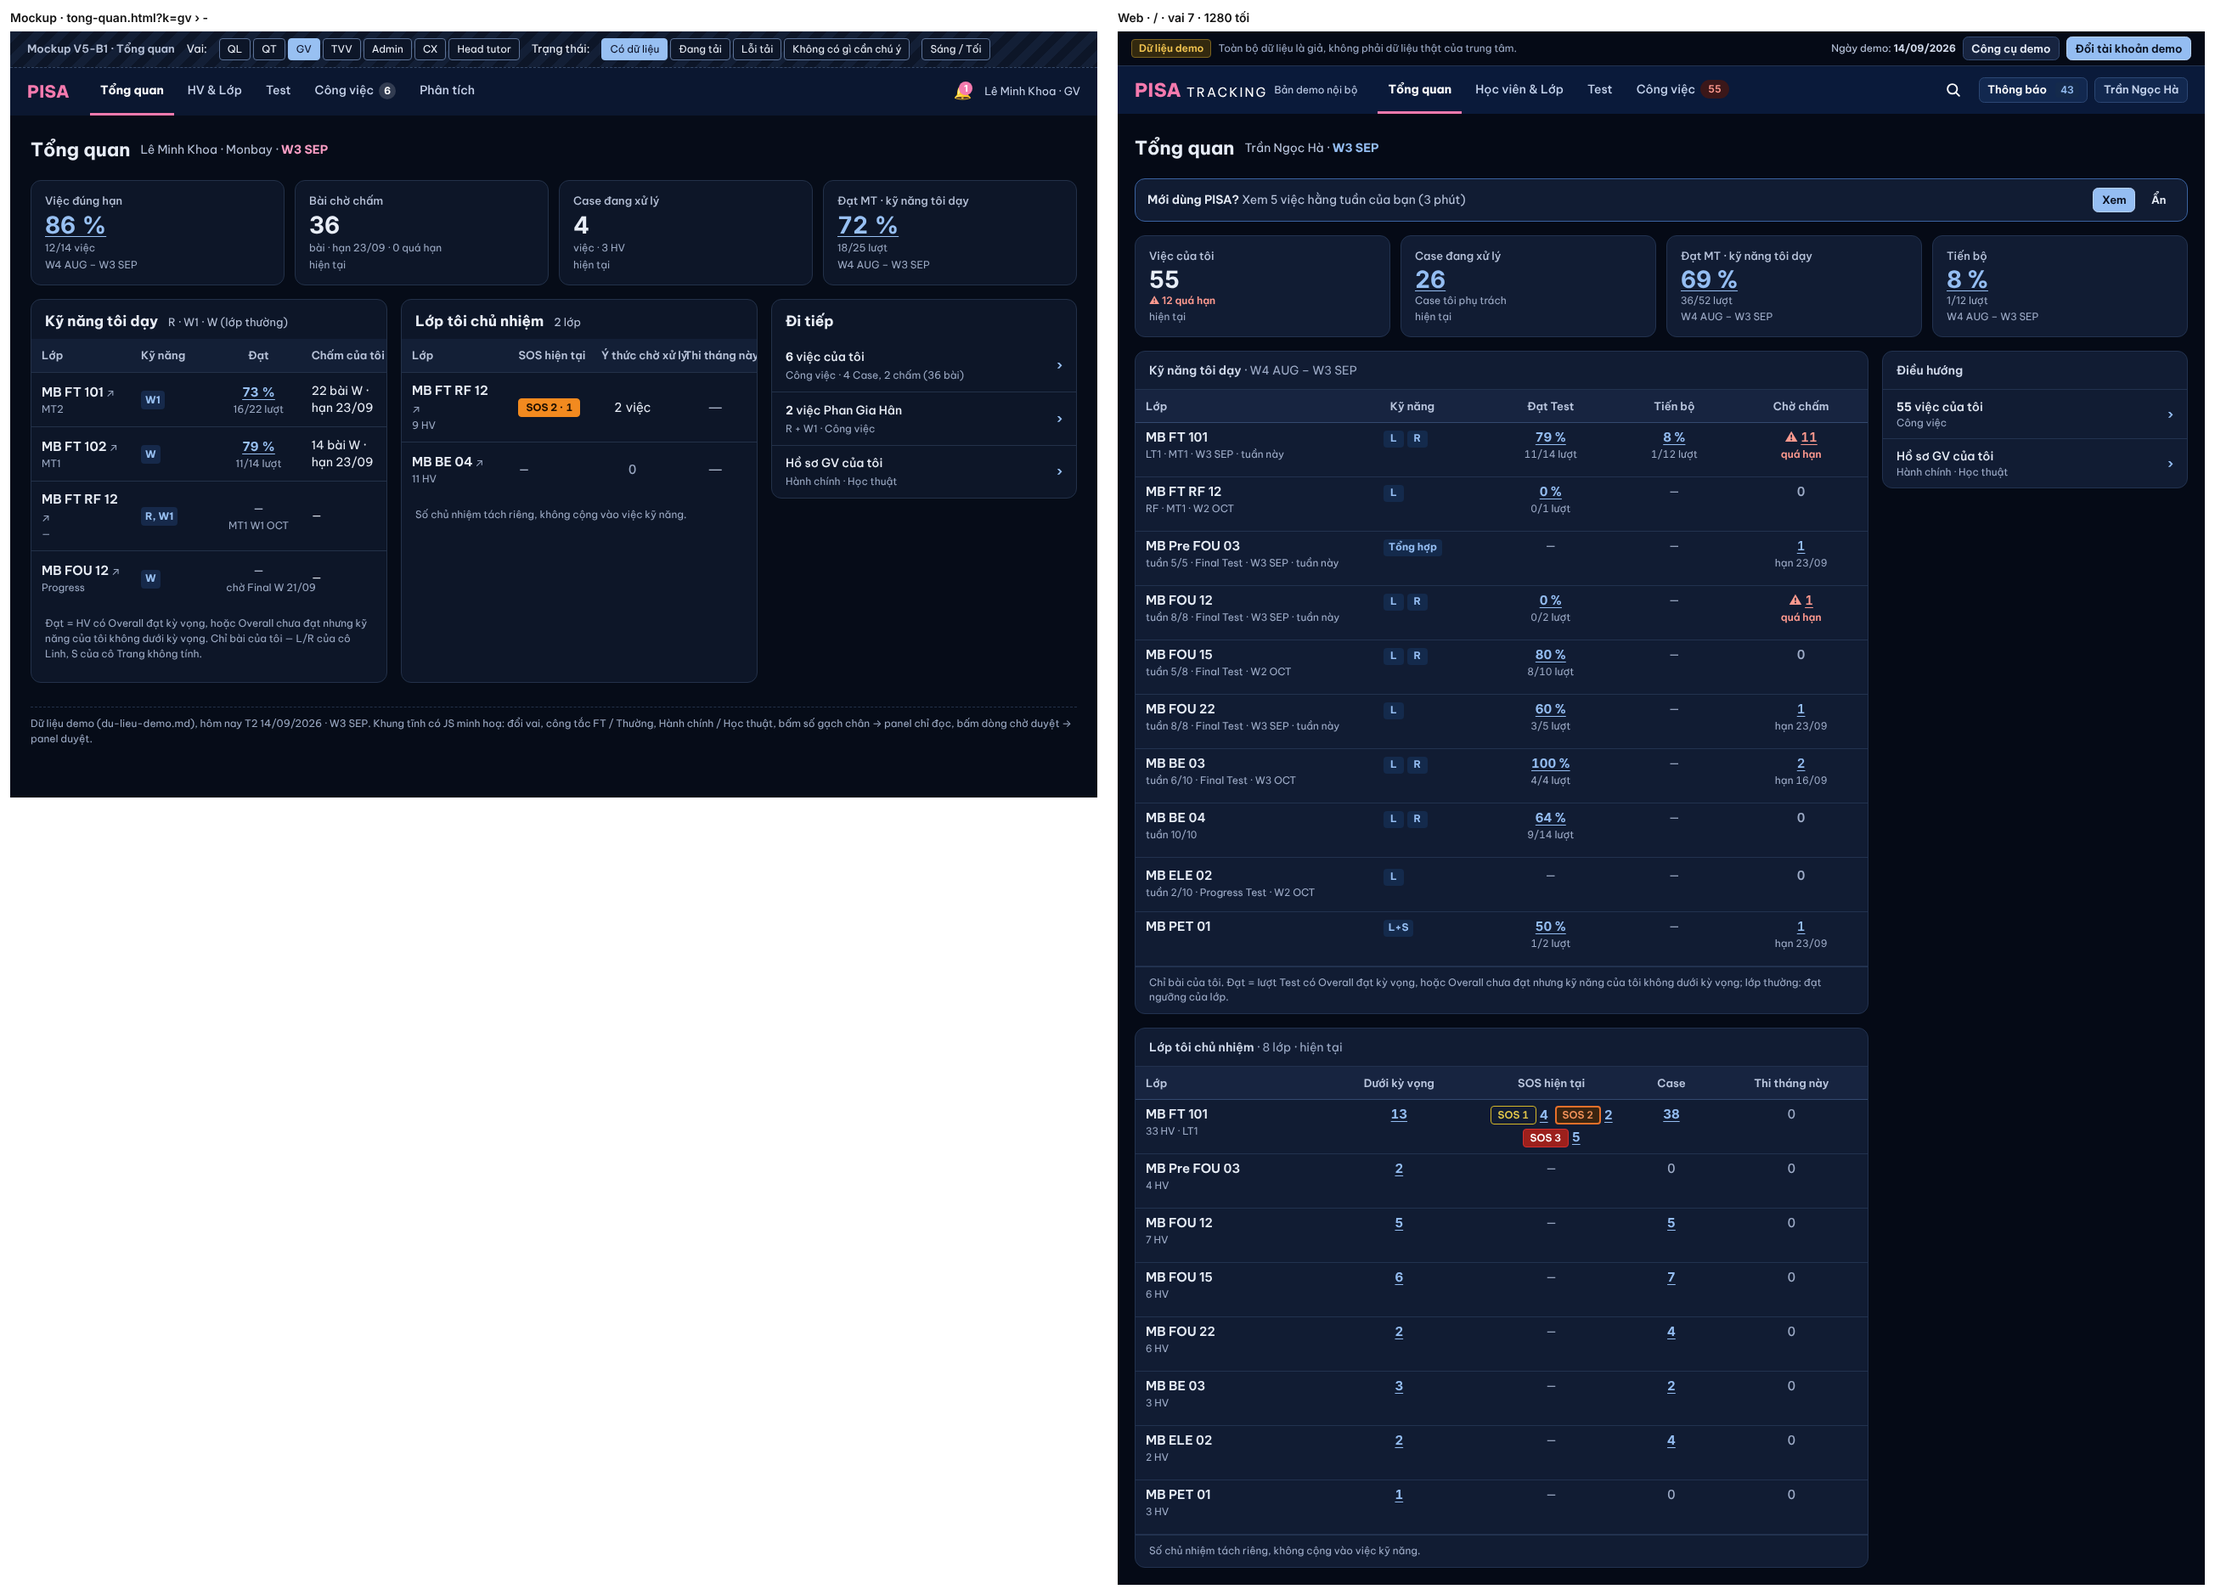
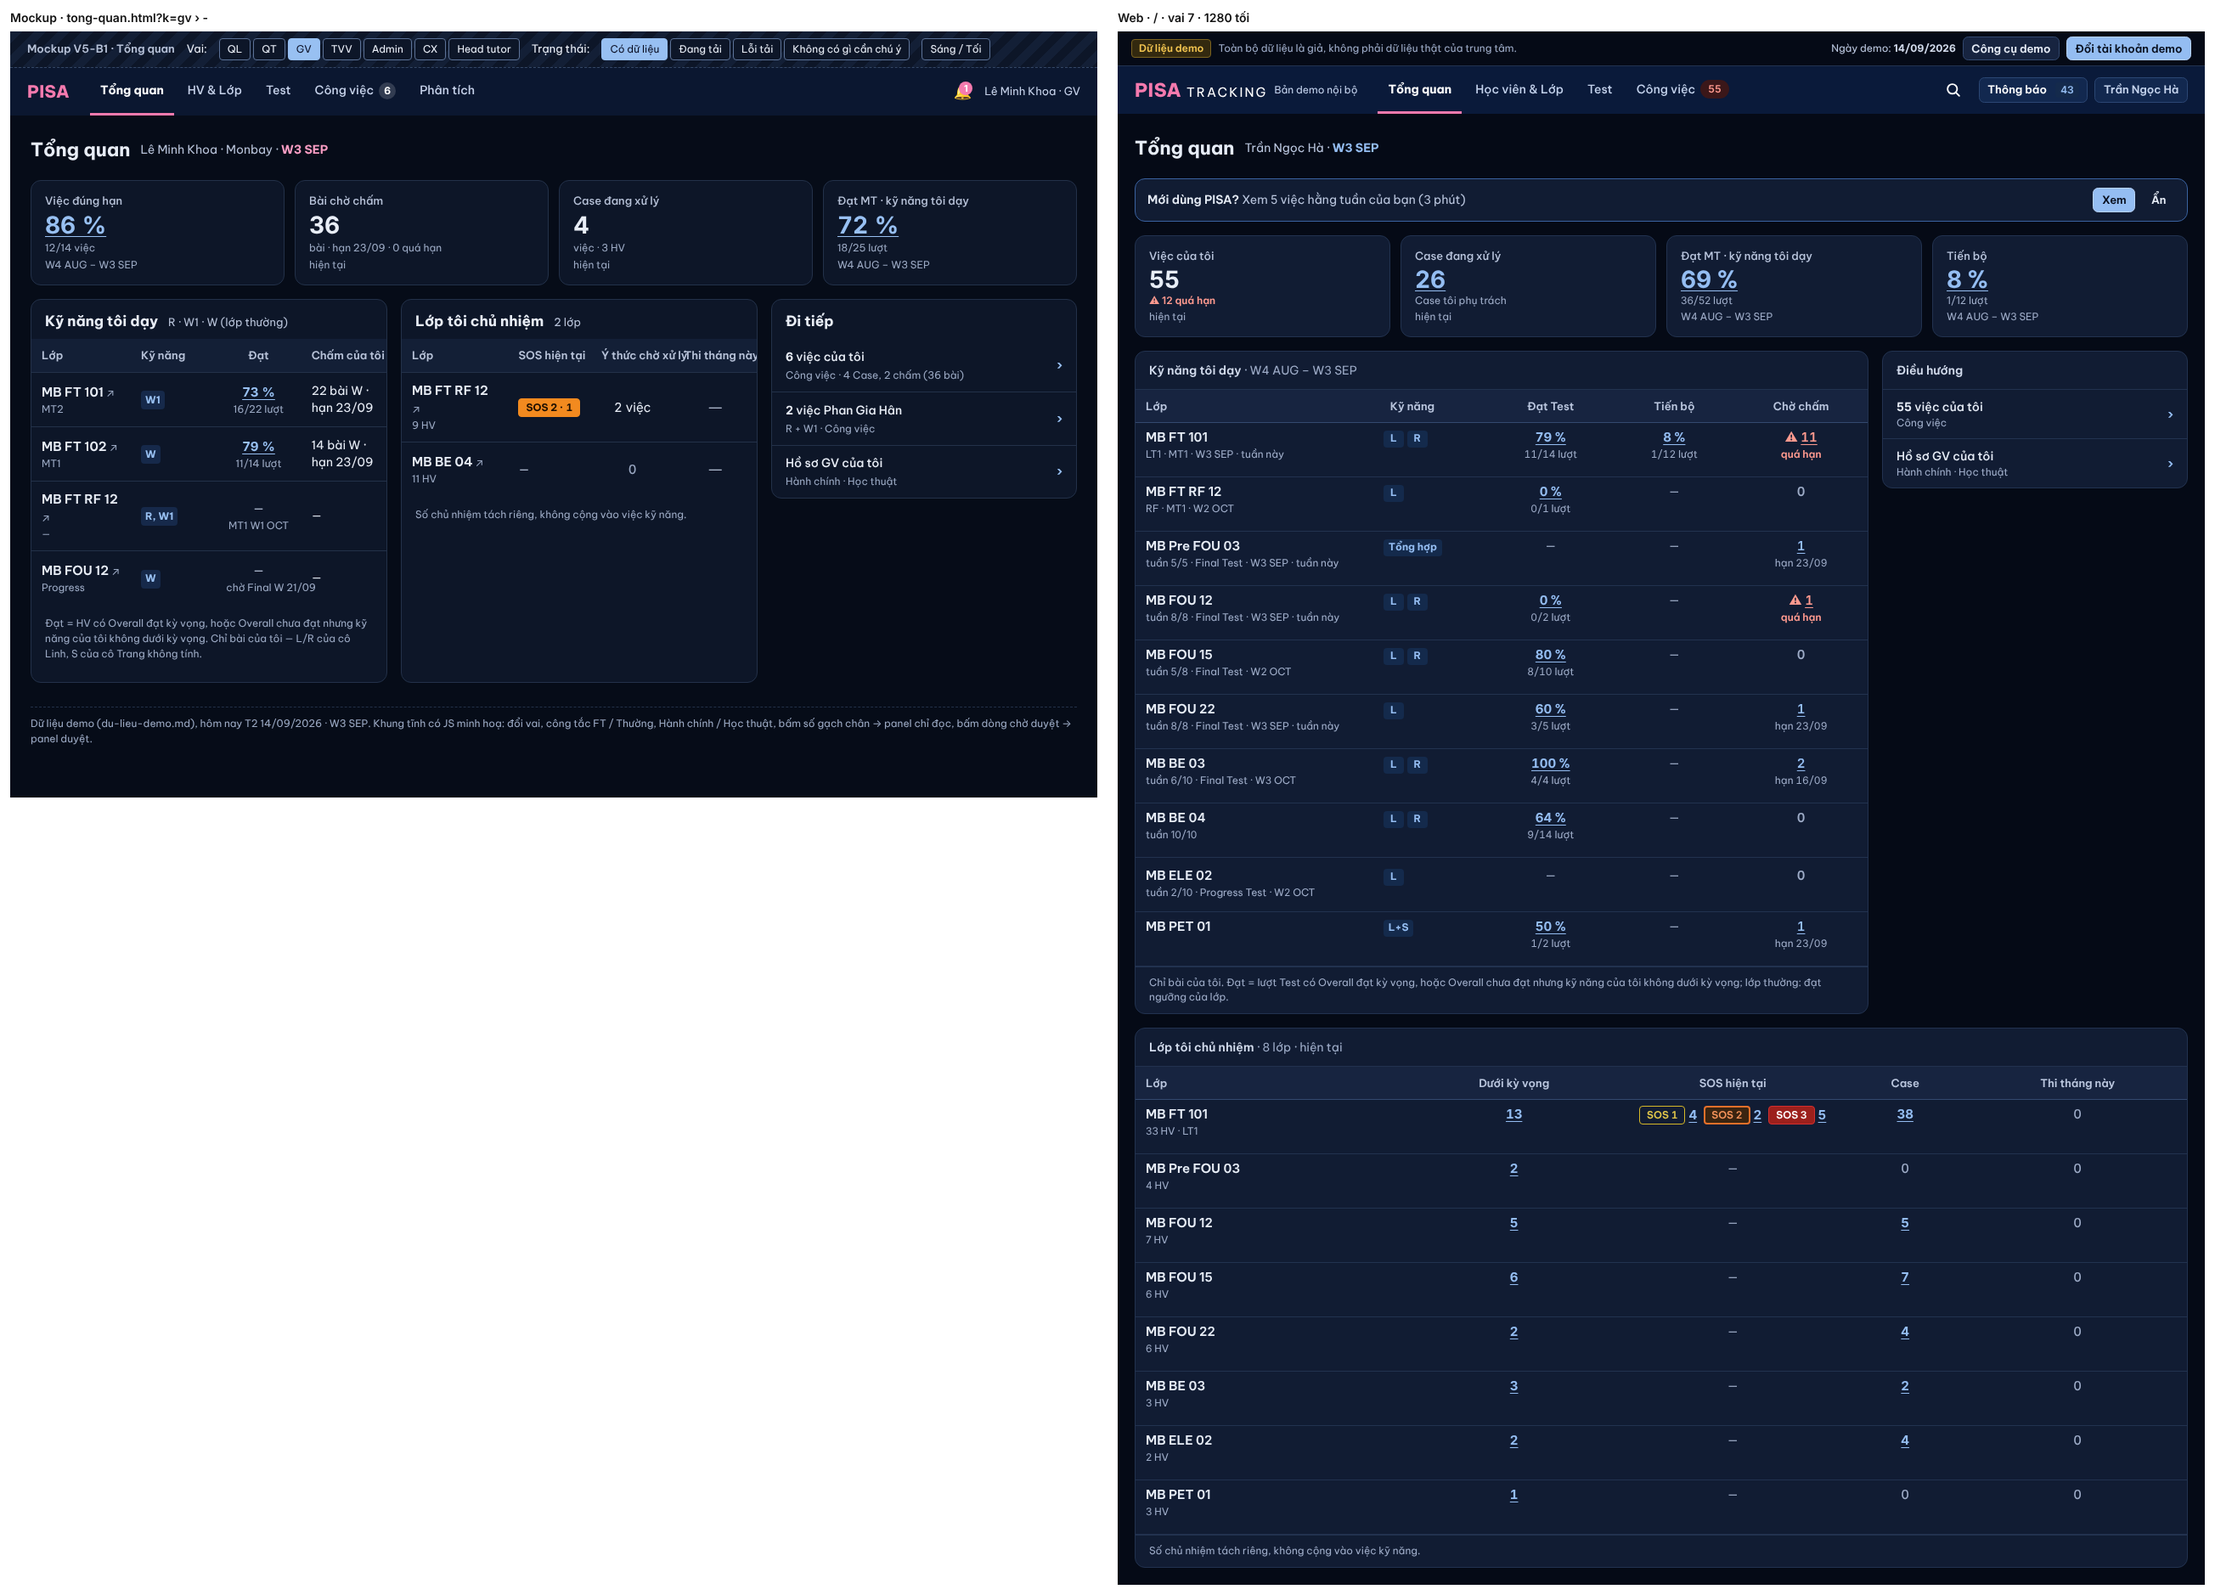
SV-TQ-GV: Lớp tôi chủ nhiệm trải cả bề ngang ở 1100–1439, bỏ đọc lớp thường khi GV không có lớp thường
Chủ SP 24/10 (ảnh 1280): không để thừa khoảng dưới Điều hướng — lưới GV ba cột ≥ 1440,
1100–1439 Kỹ năng | Điều hướng + chủ nhiệm cả hàng dưới. ponytail-review: /hai-khoi chỉ gọi
lopToiDay thường khi coThuong. Ảnh cặp chụp lại.

Claude-Session: https://claude.ai/code/session_018kxq1L8j8UffY9PRoiAhNP

Changed region(s): [[0.6833, 0.6177, 0.9939, 0.9883]]

diff --git a/web/src/modules/worklist/LopToiDay.tsx b/web/src/modules/worklist/LopToiDay.tsx
@@ -155,16 +155,21 @@ const COT_CN: readonly CotBang[] = [
  * KỸ NĂNG TÔI DẠY · LỚP TÔI CHỦ NHIỆM — tầng trái Tổng quan GV (mockup `tong-quan.html?k=gv`). Một GET `/tong-quan/lop-toi-day/hai-khoi`, cả hai khung
  * (không công tắc FT / Thường — mỗi hàng ghi khung của lớp). Số giữ ô bấm V4 (`/tong-quan/lop-toi-day/o`); Đạt / Tiến bộ = ô bảng Học thuật hồ sơ GV
  * (`/giao-vien/:id/chi-so/o?cot=ket-qua-lop|tien-bo-lop:<lớp>`). Khối không có lớp thì không dựng; không lớp nào → một thẻ rỗng (trừ vai không dạy).
+ * Lưới tự đặt cột Điều hướng (`phai`, 360): ≥ 1440 ba cột (dạy · chủ nhiệm · Điều hướng); 1100–1439 dạy | Điều hướng, chủ nhiệm trải cả hàng dưới; < 1100 một cột, Điều hướng trước.
  */
-export function HaiKhoiGv() {
+const LUOI_GV = 'grid items-start gap-4 min-[1100px]:grid-cols-[minmax(0,1fr)_360px] min-[1440px]:grid-cols-[minmax(0,1fr)_minmax(0,1fr)_360px]';
+const O_MOT = 'min-w-0 min-[1100px]:col-start-1 min-[1100px]:row-start-1 min-[1440px]:col-span-2';
+export function HaiKhoiGv({ phai }: { phai: ReactNode }) {
   const { session } = useSession();
   const id = session?.user?.id;
   const { data, error, reload } = useApi<HaiKhoi>('/tong-quan/lop-toi-day/hai-khoi', []);
-  if (error) return <ErrorState message={error.message} hint={error.hint} onRetry={reload} />;
-  if (!data) return <Card title={t('Kỹ năng tôi dạy')} bodyClass="p-4"><Skeleton rows={3} /></Card>;
+  const cotPhai = <div className="flex min-w-0 flex-col gap-4 max-[1099px]:order-first min-[1100px]:col-start-2 min-[1100px]:row-start-1 min-[1440px]:col-start-3">{phai}</div>;
+  const luoi = (trai: ReactNode) => <div data-hd="tq-lop-toi-day" className={LUOI_GV}>{trai}{cotPhai}</div>;
+  if (error) return luoi(<div className={O_MOT}><ErrorState message={error.message} hint={error.hint} onRetry={reload} /></div>);
+  if (!data) return luoi(<Card className={O_MOT} title={t('Kỹ năng tôi dạy')} bodyClass="p-4"><Skeleton rows={3} /></Card>);
   if (!data.day.length && !data.chuNhiem.length) {
-    if (!session?.roles?.includes('teacher')) return null;   // Head tutor (góc nhìn GV, không dạy lớp): không thẻ rỗng
-    return <Card title={t('Lớp của tôi')} bodyClass="p-0"><Empty title={t('Bạn chưa được phân công lớp nào đang mở')} hint={t('Khi QL phân công lớp, kỹ năng bạn dạy và lớp chủ nhiệm hiện ở đây.')} /></Card>;
+    if (!session?.roles?.includes('teacher')) return luoi(null);   // Head tutor (góc nhìn GV, không dạy lớp): không thẻ rỗng
+    return luoi(<Card className={O_MOT} title={t('Lớp của tôi')} bodyClass="p-0"><Empty title={t('Bạn chưa được phân công lớp nào đang mở')} hint={t('Khi QL phân công lớp, kỹ năng bạn dạy và lớp chủ nhiệm hiện ở đây.')} /></Card>);
   }
   const o = (khung: string, classId: number, cot: string, n: number, tieuDe: string, className?: string) => (
     <OSo giaTri={n} nguon={`/tong-quan/lop-toi-day/o?ct=${khung}&classId=${classId}&cot=${cot}`} tieuDe={tieuDe} className={className} />
@@ -216,10 +221,10 @@ export function HaiKhoiGv() {
   const phuCn = (l: DongCn, c: CotBang): ReactNode => (c.key === 'lop' ? [t('{n} HV', { n: l.hocVien }), l.khung === 'ft' ? l.route : null].filter(Boolean).join(' · ') : null);
 
   const hai = data.day.length > 0 && data.chuNhiem.length > 0;
-  return (
-    <div data-hd="tq-lop-toi-day" className={`grid items-start gap-4 ${hai ? 'min-[1440px]:grid-cols-2' : ''}`}>
+  return luoi(
+    <>
       {data.day.length > 0 && (
-        <Card bodyClass="p-0" title={<>{t('Kỹ năng tôi dạy')}{data.ky && <span className="font-normal text-slate-500"> · {kyChu(data.ky)}</span>}</>}>
+        <Card className={hai ? 'min-w-0 min-[1100px]:col-start-1 min-[1100px]:row-start-1' : O_MOT} bodyClass="p-0" title={<>{t('Kỹ năng tôi dạy')}{data.ky && <span className="font-normal text-slate-500"> · {kyChu(data.ky)}</span>}</>}>
           <Bang ten={t('Kỹ năng tôi dạy')} cot={coTb ? COT_DAY : COT_DAY.filter((c) => c.key !== 'tb')} hang={data.day} khoa={(d) => d.classId} oCua={oDay} phuCua={phuDay} khung={false} deu />
           <p className="m-0 border-t px-4 py-2.5 text-xs text-slate-500" style={{ borderColor: 'var(--line)' }}>
             {t('Chỉ bài của tôi. Đạt = lượt Test có Overall đạt kỳ vọng, hoặc Overall chưa đạt nhưng kỹ năng của tôi không dưới kỳ vọng; lớp thường: đạt ngưỡng của lớp.')}
@@ -227,11 +232,11 @@ export function HaiKhoiGv() {
         </Card>
       )}
       {data.chuNhiem.length > 0 && (
-        <Card bodyClass="p-0" title={<>{t('Lớp tôi chủ nhiệm')} <span className="font-normal text-slate-500">· {t('{n} lớp', { n: data.chuNhiem.length })} · {t('hiện tại')}</span></>}>
+        <Card className={hai ? 'min-w-0 min-[1100px]:col-span-2 min-[1440px]:col-span-1 min-[1440px]:col-start-2 min-[1440px]:row-start-1' : O_MOT} bodyClass="p-0" title={<>{t('Lớp tôi chủ nhiệm')} <span className="font-normal text-slate-500">· {t('{n} lớp', { n: data.chuNhiem.length })} · {t('hiện tại')}</span></>}>
           <Bang ten={t('Lớp tôi chủ nhiệm')} cot={data.chuNhiem.some((l) => l.khung === 'ft') ? COT_CN : COT_CN.filter((c) => c.key !== 'sos')} hang={data.chuNhiem} khoa={(l) => l.classId} oCua={oCn} phuCua={phuCn} khung={false} deu />
           <p className="m-0 border-t px-4 py-2.5 text-xs text-slate-500" style={{ borderColor: 'var(--line)' }}>{t('Số chủ nhiệm tách riêng, không cộng vào việc kỹ năng.')}</p>
         </Card>
       )}
-    </div>
+    </>,
   );
 }

diff --git a/web/src/modules/worklist/TongQuanV5.tsx b/web/src/modules/worklist/TongQuanV5.tsx
@@ -390,7 +390,8 @@ export function TongQuanCxV5({ d, onChiNhanh }: { d: TongQuanV5Data; onChiNhanh:
 
 type ChiSoGv = { tu: string; den: string; ketQua: OPtGv; tienBo: OPtGv };
 /** GV (chủ SP 23/10; Head tutor tạm dùng chung): Việc của tôi (+ quá hạn) · Case đang xử lý · Đạt MT kỹ năng tôi dạy · Tiến bộ. */
-export function TongQuanGvV5({ lopToiDay }: { lopToiDay: ReactNode }) {
+/** `lopToiDay(phai)`: khối trái tự đặt cột Điều hướng (SV-TQ-GV — khối chủ nhiệm trải cả bề ngang dưới khi 1100–1439). */
+export function TongQuanGvV5({ lopToiDay }: { lopToiDay: (phai: ReactNode) => ReactNode }) {
   const { session } = useSession();
   const id = session?.user?.id;
   const cs = useApi<ChiSoGv>(id ? `/giao-vien/${id}/chi-so` : null, [id]);
@@ -410,11 +411,10 @@ export function TongQuanGvV5({ lopToiDay }: { lopToiDay: ReactNode }) {
         <ChiSo ten={t('Đạt MT · kỹ năng tôi dạy')} ky={ky} giaTri={o(cs.data?.ketQua, 'ket-qua', t('Kết quả'))} mau={tuMau(tyLeGv(cs.data?.ketQua), t('lượt'))} />
         <ChiSo ten={t('Tiến bộ')} ky={ky} giaTri={o(cs.data?.tienBo, 'tien-bo', t('HV tiến bộ'))} mau={tuMau(tyLeGv(cs.data?.tienBo), t('lượt'))} />
       </DaiChiSo>
-      <BoCuc trai={lopToiDay}
-        phai={<DiTiep dong={[
+      {lopToiDay(<DiTiep dong={[
           ...(session?.nav?.work ? [{ to: '/cong-viec', t1: <><So n={viec?.viec ?? 0} /> {t('việc của tôi')}</>, t2: t('Công việc') }] : []),
           ...(id ? [{ to: `/giao-vien/${id}`, t1: t('Hồ sơ GV của tôi'), t2: t('Hành chính · Học thuật') }] : []),
-        ]} />} />
+        ]} />)}
     </>
   );
 }

diff --git a/server/src/worklist/tongQuan.ts b/server/src/worklist/tongQuan.ts
@@ -359,7 +359,9 @@ function thiThangNayCuaGv(p: Principal, ct: 'ft' | 'thuong') {
  * Mỗi số bấm được: cột V4 + Thi tháng này → `/tong-quan/lop-toi-day/o`; Đạt / Tiến bộ → `/giao-vien/:id/chi-so/o?cot=ket-qua-lop|tien-bo-lop:<lớp>`.
  */
 export function lopToiDayHaiKhoi(p: Principal) {
-  const hang = (['ft', 'thuong'] as const).flatMap((khung) => lopToiDay(p, { ct: khung }).rows.map((r) => ({ ...r, khung })));
+  /* Lớp thường chỉ đọc khi GV có lớp thường (`coThuong` của lần đọc FT) — GV chỉ dạy FT không tốn thêm câu. */
+  const ft = lopToiDay(p, { ct: 'ft' });
+  const hang = [...ft.rows.map((r) => ({ ...r, khung: 'ft' as const })), ...(ft.coThuong ? lopToiDay(p, { ct: 'thuong' }).rows.map((r) => ({ ...r, khung: 'thuong' as const })) : [])];
   /* Lớp chỉ GVCN (không kỹ năng) mà còn bài chờ chấm của tôi vẫn vào khối dạy — không giấu bài. */
   const day = hang.filter((r) => r.kyNang.length || r.baiCho);
   const cs = day.length ? chiSoHoSoGv(p, p.userId, {}) : null;

diff --git a/web/src/modules/worklist/OverviewPage.tsx b/web/src/modules/worklist/OverviewPage.tsx
@@ -49,7 +49,7 @@ export default function OverviewPage() {
   );
 
   if (vai === 'tvv') return trang(t('HV của tôi'), <TongQuanTvvV5 />);
-  if (vai === 'gv' || vai === 'ht') return trang(session?.user?.fullName ?? '', <TongQuanGvV5 lopToiDay={<HaiKhoiGv />} />);
+  if (vai === 'gv' || vai === 'ht') return trang(session?.user?.fullName ?? '', <TongQuanGvV5 lopToiDay={(phai) => <HaiKhoiGv phai={phai} />} />);
   if (vai === 'admin') {
     return trang(t('Mock Test'), <TongQuanAdminV5 cn={branchId} mockTest={<MockTestAdmin branchId={branchId} />} lich={<LichSapToi branchId={branchId} ct={null} />} />, chiNhanh);
   }

diff --git a/docs/anh/sv-tq-gv/khop-khac.md b/docs/anh/sv-tq-gv/khop-khac.md
@@ -30,7 +30,7 @@ Quyền: chỉ lớp của chính người gọi (phân công hiệu lực hôm 
 | # | Khung mockup | Thành phần web | Kết quả |
 |---|---|---|---|
 | 1 | Hai thẻ cạnh nhau "Kỹ năng tôi dạy" · "Lớp tôi chủ nhiệm" trong cột trái, cột "Đi tiếp" phải | `HaiKhoiGv` (`Card` × 2) trong `BoCuc` trái; cột phải giữ "Điều hướng" #551 | KHỚP |
-| 2 | Cạnh nhau tới 1100 px | cạnh nhau **≥ 1440**; 1100–1439 xếp dọc (ở 1280 mỗi thẻ ~400 px, bảng 5 cột phải cuộn ngang trong thẻ) | KHÁC — [XM-SV-3] |
+| 2 | Cạnh nhau tới 1100 px | cạnh nhau **≥ 1440** (ba cột: dạy · chủ nhiệm · Điều hướng); 1100–1439: Kỹ năng tôi dạy | Điều hướng, **Lớp tôi chủ nhiệm trải cả bề ngang dưới** (chủ SP 24/10 — không để thừa khoảng trống dưới Điều hướng); ở 1280 hai thẻ cạnh nhau chỉ ~400 px, bảng phải cuộn ngang | KHÁC — [XM-SV-3] |
 | 3 | Tiêu đề phụ "R · W1 · W (lớp thường)" | tiêu đề phụ = **kỳ** "W4 AUG – W3 SEP" (Đạt / Tiến bộ là số theo kỳ); kỹ năng nằm ở chip từng hàng | KHÁC nhỏ (chỉnh cho hợp lý) |
 | 4 | Cột Lớp + dòng phụ mốc Test ("MT2", "Progress") | mã lớp → hồ sơ lớp; dòng phụ: lộ trình · Test sắp tới (FT) / tuần học · Test sắp tới (thường) · "tuần này" (V4 "Test sắp tới") | KHỚP |
 | 5 | Cột Kỹ năng (chip) | `ChipKy` (chung với hồ sơ GV, chuyển sang `ui/Nhan.tsx`) | KHỚP |
@@ -55,7 +55,7 @@ Quyền: chỉ lớp của chính người gọi (phân công hiệu lực hôm 
 ## [XM] — cần PTA Plan
 
 - **XM-SV-1** cột "Ý thức chờ xử lý" (mockup) ↔ "Case" (`plan.md` SV-TQ-GV + prompt PR). Chọn **Case** (giữ ô V4 bấm được). Thêm cột Ý thức cần một tập "việc Ý thức chờ xử lý theo lớp" — chưa có hàm theo lớp cho GVCN (Công việc nhóm Ý thức là theo việc). **Khuyến nghị:** giữ Case; nếu chủ SP muốn Ý thức, thêm cột thứ 6 ở PR sau (dùng tập nhóm `y-thuc` của `myWork` chia theo lớp).
-- **XM-SV-3** hai khối cạnh nhau chỉ từ 1440 (mockup từ 1100). Ở 1280 mỗi thẻ ~400 px < bảng 462–500 px → hoặc cuộn ngang trong thẻ, hoặc bỏ cột. **Khuyến nghị:** giữ xếp dọc < 1440 (không mất cột, không cuộn ngang).
+- **XM-SV-3** hai khối cạnh nhau chỉ từ 1440 (mockup từ 1100). Ở 1280 mỗi thẻ ~400 px < bảng 462–500 px. Chủ SP 24/10 xem ảnh 1280: khối chủ nhiệm **trải cả bề ngang** dưới (đã làm). **Khuyến nghị:** giữ.
 - (không phải XM — ghi lại) Mockup "Đi tiếp" có dòng "2 việc Phan Gia Hân" (bàn giao): ngoài phạm vi PR này, cột phải giữ đúng #551.
 
 ## Thao tác TRƯỚC → SAU
